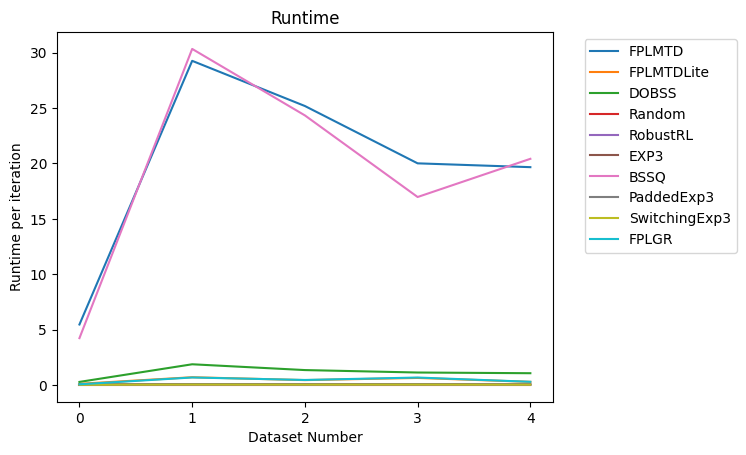
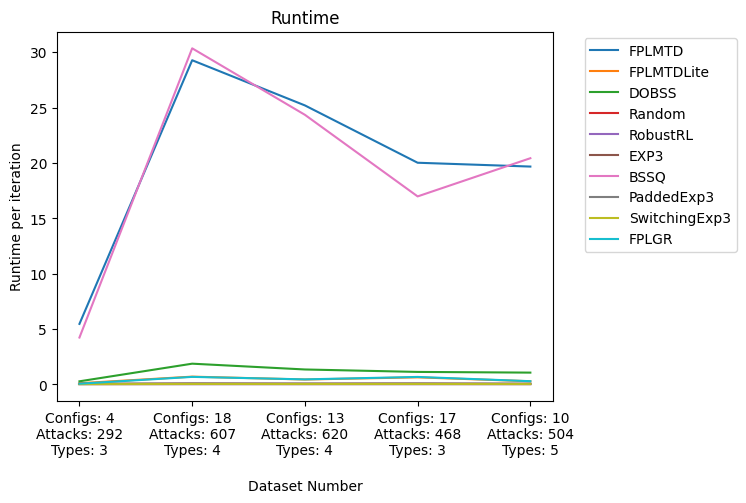
added data labels

diff --git a/Expts/compare.py b/Expts/compare.py
@@ -10,13 +10,20 @@ if __name__ == "__main__":
     switches_list = []
     runtimes_list = []
     utils_list = []
+    details = []
+
+    config_num = []
+    attack_num = []
+    type_num = []
 
     n_datasets = int(sys.argv[1])+1
     for dataset_num in range(n_datasets):
         f = open(DIR + str(dataset_num) + "overall_out_BestResponse.txt")
-        config_num = int(f.readline())
-        attack_num = int(f.readline())
-        type_num = int(f.readline())
+        config_num.append(int(f.readline()))
+        attack_num.append(int(f.readline()))
+        type_num.append((f.readline()))
+
+        details.append([config_num, attack_num, type_num])
 
 
         f.readline()
@@ -56,6 +63,10 @@ if __name__ == "__main__":
         x = range(n_datasets)
         y = switch_arr
         plt.xticks(np.arange(min(x), max(x)+1, 1.0))
+        my_xticks = []
+        for d in range(n_datasets):
+            my_xticks.append('Configs: ' + str(config_num[d]) + '\nAttacks: ' + str(attack_num[d]) + '\nTypes: ' + str(type_num[d]))        
+        plt.xticks(x, my_xticks)
         plt.plot(x, y, label = strats_list[strat])
         
     plt.xlabel('Dataset Number')
@@ -72,6 +83,10 @@ if __name__ == "__main__":
         x = range(n_datasets)
         y = runtime_arr
         plt.xticks(np.arange(min(x), max(x)+1, 1.0))
+        my_xticks = []
+        for d in range(n_datasets):
+            my_xticks.append('Configs: ' + str(config_num[d]) + '\nAttacks: ' + str(attack_num[d]) + '\nTypes: ' + str(type_num[d]))        
+        plt.xticks(x, my_xticks)
         plt.plot(x, y, label = strats_list[strat])
         
     plt.xlabel('Dataset Number')
@@ -88,6 +103,10 @@ if __name__ == "__main__":
         x = range(n_datasets)
         y = util_arr
         plt.xticks(np.arange(min(x), max(x)+1, 1.0))
+        my_xticks = []
+        for d in range(n_datasets):
+            my_xticks.append('Configs: ' + str(config_num[d]) + '\nAttacks: ' + str(attack_num[d]) + '\nTypes: ' + str(type_num[d]))
+        plt.xticks(x, my_xticks)
         plt.plot(x, y, label = strats_list[strat])
         
     plt.xlabel('Dataset Number')
